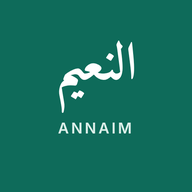
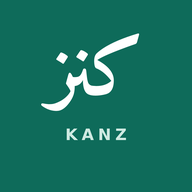
Илова номи: Kanz (كنز), янги иконкалар
Claude-Session: https://claude.ai/code/session_01LVwogc1FtWDNnXYXqN4K3j

Changed region(s): [[0.2188, 0.1562, 0.75, 0.5938], [0.3125, 0.625, 0.6875, 0.75], [0.2812, 0.6875, 0.3125, 0.7188]]

diff --git a/index.html b/index.html
@@ -7,12 +7,12 @@
 <meta name="apple-mobile-web-app-capable" content="yes">
 <meta name="mobile-web-app-capable" content="yes">
 <meta name="apple-mobile-web-app-status-bar-style" content="default">
-<meta name="apple-mobile-web-app-title" content="ANNAIM">
-<meta name="description" content="«Ан-Найм» арабча-ўзбекча луғати">
+<meta name="apple-mobile-web-app-title" content="Kanz">
+<meta name="description" content="Kanz: «Ан-Найм» арабча-ўзбекча луғати">
 <link rel="manifest" href="manifest.webmanifest">
 <link rel="icon" type="image/png" sizes="32x32" href="icons/favicon-32.png">
 <link rel="apple-touch-icon" href="icons/apple-touch-icon.png">
-<title>ANNAIM Луғат</title>
+<title>Kanz Луғат</title>
 <link rel="stylesheet" href="https://fonts.googleapis.com/css2?family=IBM+Plex+Sans:wght@400;500;600&family=Noto+Naskh+Arabic:wght@400;600&family=Comfortaa:wght@500;700&display=swap">
 <style>
 /* Layout: one phone-width column. Welcome (3 steps), Home with search, an entry laid out as in the book,
@@ -1042,7 +1042,7 @@ function welcome(n) {
   const back = n > 1 ? h('button', { class: 'link', onclick: () => go('w' + (n - 1)) }, '← Орқага') : h('span', {});
   const bar = h('div', { class: 'bar' }, back, skip);
   if (n === 1) return page(null, bar,
-    h('div', { class: 'hero' }, h('small', {}, 'ANNAIM'), h('div', { class: 'a', lang: 'ar' }, 'النعيم')),
+    h('div', { class: 'hero' }, h('small', {}, 'KANZ'), h('div', { class: 'a', lang: 'ar' }, 'كنز')),
     h('h1', { class: 't' }, 'Арабча-ўзбекча луғат'),
     h('p', { class: 's' }, 'Китобдаги ҳар бир сўз, огласовкалари билан, бир босишда сизнинг чўнтагингизда.'),
     dots(1), h('button', { class: 'btn', onclick: () => go('w2') }, 'Давом этиш'));
@@ -1125,7 +1125,7 @@ function renderHome() {
   const clearBtn = h('button', { class: 'link', style: 'padding:0;min-height:44px', hidden: true, onclick: () => { query = ''; letter = ''; fillAll(); input.focus(); } }, 'Тозалаш');
   input.addEventListener('input', () => { query = input.value; letter = ''; clearBtn.hidden = backBar.hidden = !(query || letter); fill(); });
   page('home',
-    h('div', { class: 'top' }, h('div', { class: 'brand' }, h('span', { class: 'ar', lang: 'ar' }, 'النعيم')),
+    h('div', { class: 'top' }, h('div', { class: 'brand' }, h('span', { class: 'ar', lang: 'ar' }, 'كنز')),
       h('a', { class: 'round', href: '#profile', 'aria-label': 'Профил' }, svg(ICON.user, 22))),
     backBar, h('div', { class: 'search' }, svg(ICON.find, 20), input, clearBtn), body);
   clearBtn.hidden = backBar.hidden = !(query || letter); fill();

diff --git a/sw.js b/sw.js
@@ -1,6 +1,6 @@
 // ANNAIM service worker: луғатни телефонга сақлайди, интернетсиз ҳам очилади.
 // Версия make_web.py томонидан ҳар йиғишда алмаштирилади.
-const VERSION = '20261110-100900-sukun';
+const VERSION = '20261111-kanz';
 const CACHE = 'annaim-' + VERSION;
 const CORE = ['./', './index.html', './data1.js', './data2.js', './extra.js', './manifest.webmanifest', './icons/icon-192.png', './icons/icon-512.png', './icons/apple-touch-icon.png', './icons/favicon-32.png'];
 
